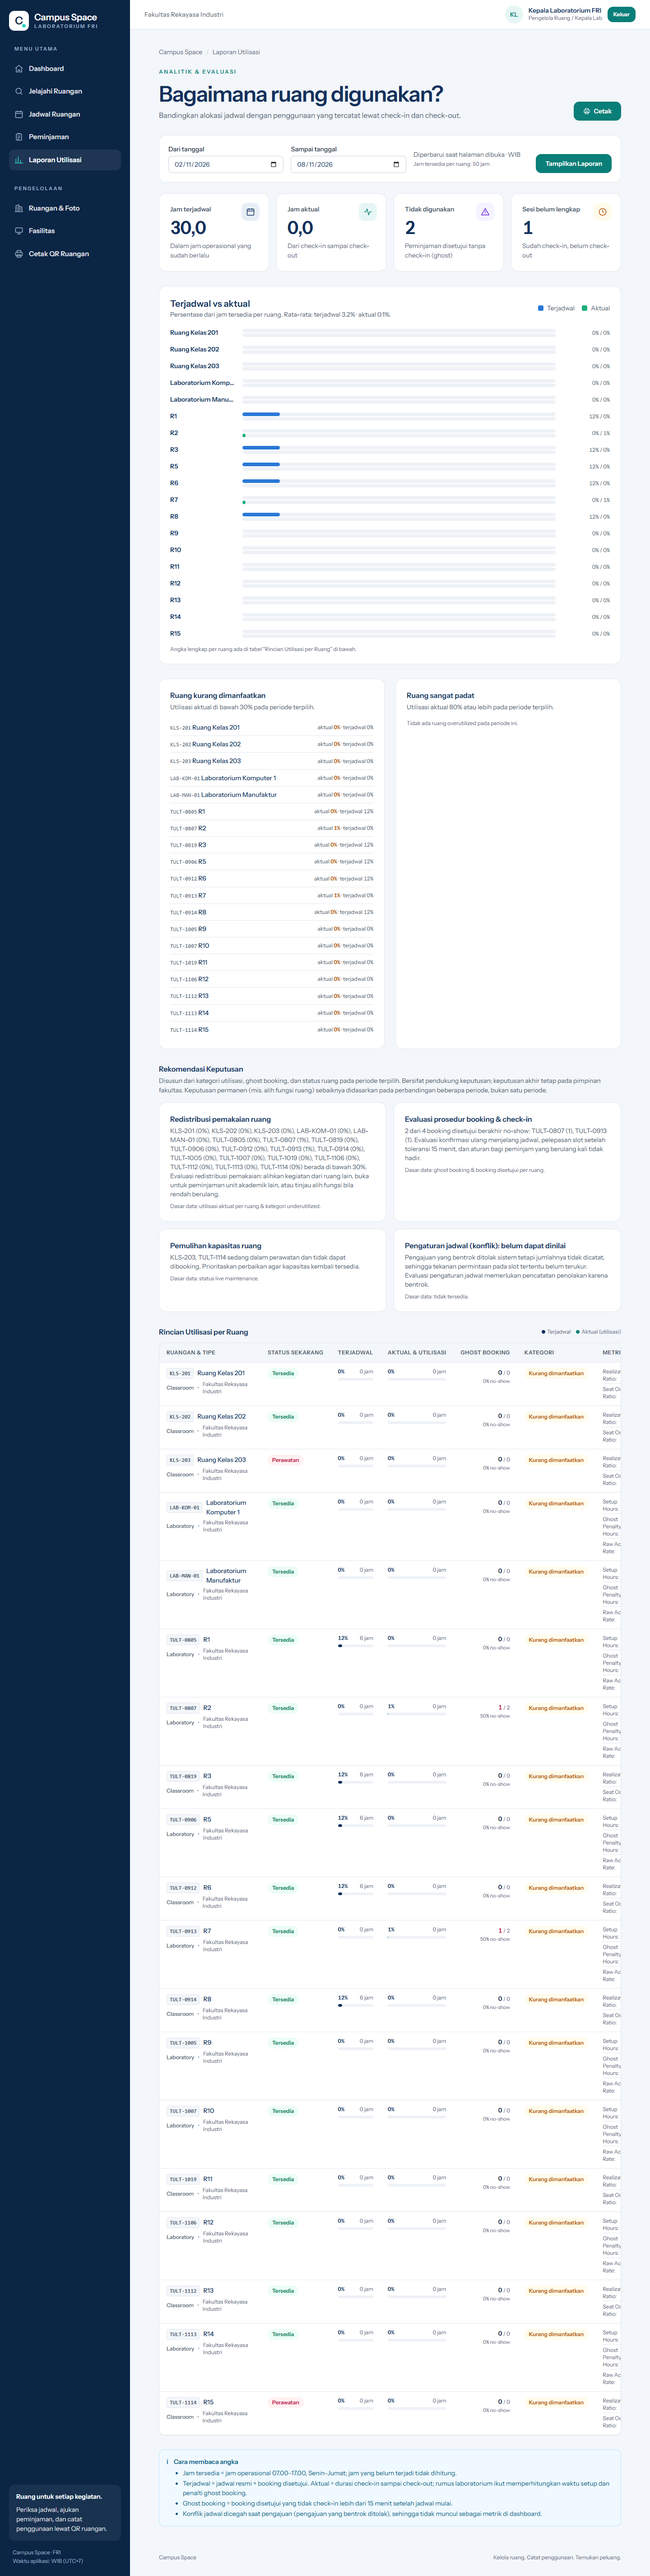
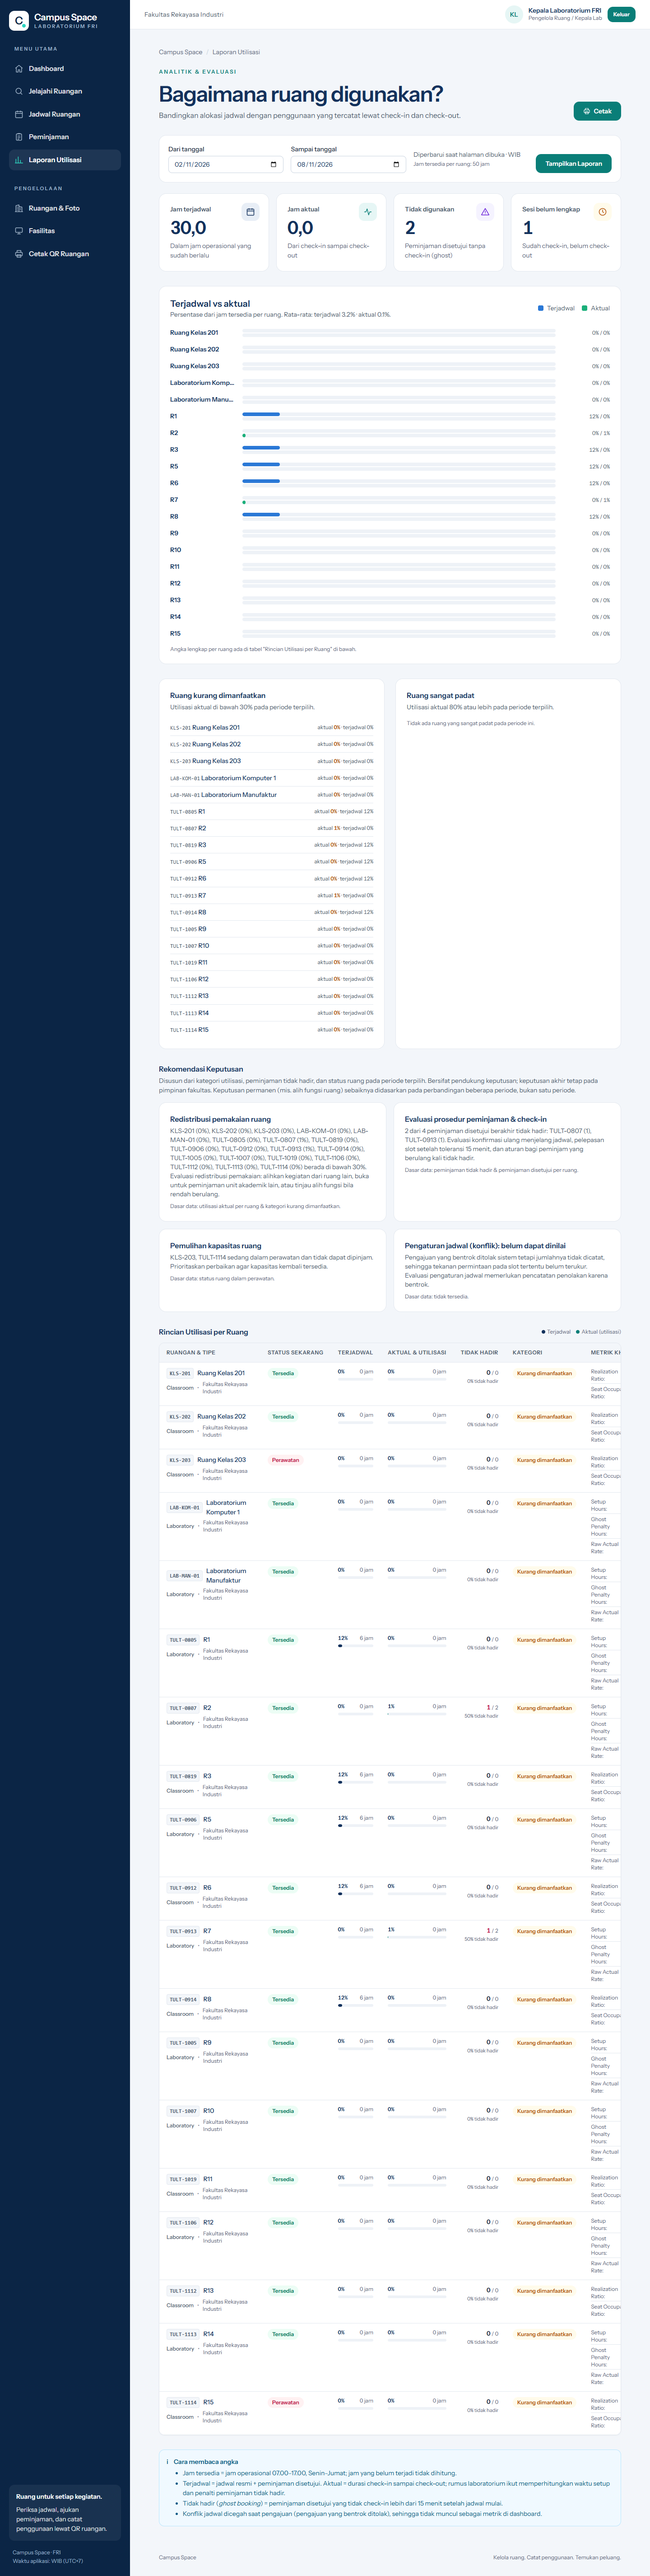
fix(ui): ganti sisa istilah Inggris di laporan utilisasi dan form ruang (by aldikarmdhn)
- "booking" -> "peminjaman", "ghost booking"/"no-show" -> "peminjaman tidak hadir"
- "underutilized"/"overutilized" -> "kurang dimanfaatkan"/"sangat padat"
- Kolom tabel "Ghost Booking" -> "Tidak hadir"; istilah ghost booking tetap di catatan definisi
- Perbarui screenshot 09 di docs/fe/hasil-ui

diff --git a/resources/views/dashboard/utilization.blade.php b/resources/views/dashboard/utilization.blade.php
@@ -132,7 +132,7 @@
             <h2 id="under-heading" class="cs-section-title">Ruang kurang dimanfaatkan</h2>
             <p class="cs-section-description">Utilisasi aktual di bawah 30% pada periode terpilih.</p>
             @if ($underRooms->isEmpty())
-                <p class="cs-caption mt-4">Tidak ada ruang underutilized pada periode ini.</p>
+                <p class="cs-caption mt-4">Tidak ada ruang yang kurang dimanfaatkan pada periode ini.</p>
             @else
                 <ul class="mt-4 divide-y divide-border">
                     @foreach ($underRooms as $room)
@@ -155,7 +155,7 @@
             <h2 id="over-heading" class="cs-section-title">Ruang sangat padat</h2>
             <p class="cs-section-description">Utilisasi aktual 80% atau lebih pada periode terpilih.</p>
             @if ($overRooms->isEmpty())
-                <p class="cs-caption mt-4">Tidak ada ruang overutilized pada periode ini.</p>
+                <p class="cs-caption mt-4">Tidak ada ruang yang sangat padat pada periode ini.</p>
             @else
                 <ul class="mt-4 divide-y divide-border">
                     @foreach ($overRooms as $room)
@@ -179,7 +179,7 @@
     <section aria-labelledby="recommendation-heading" class="mb-8">
         <h2 id="recommendation-heading" class="cs-section-title">Rekomendasi Keputusan</h2>
         <p class="cs-section-description">
-            Disusun dari kategori utilisasi, ghost booking, dan status ruang pada periode terpilih.
+            Disusun dari kategori utilisasi, peminjaman tidak hadir, dan status ruang pada periode terpilih.
             Bersifat pendukung keputusan; keputusan akhir tetap pada pimpinan fakultas. Keputusan permanen
             (mis. alih fungsi ruang) sebaiknya didasarkan pada perbandingan beberapa periode, bukan satu periode.
         </p>
@@ -188,7 +188,7 @@
             <div class="cs-card mt-4">
                 <div class="cs-empty-state">
                     <p class="cs-empty-state-title">Belum ada data ruang untuk dianalisis.</p>
-                    <p class="mt-1">Rekomendasi muncul setelah ruang, jadwal, dan booking tercatat.
+                    <p class="mt-1">Rekomendasi muncul setelah ruang, jadwal, dan peminjaman tercatat.
                         <a href="{{ route('rooms.create') }}" class="cs-link">Tambah ruang</a>.</p>
                 </div>
             </div>
@@ -200,10 +200,10 @@
                             <h3 class="font-semibold text-ink">Redistribusi beban ruang (load balancing)</h3>
                             <p class="mt-1 text-sm text-ink-soft">
                                 Pemakaian tidak merata: {{ $roomRates($overRooms) }} berada di atas 80%, sementara
-                                {{ $roomRates($underRooms) }} di bawah 30%. Evaluasi pemindahan sebagian jadwal/booking dari ruang
+                                {{ $roomRates($underRooms) }} di bawah 30%. Evaluasi pemindahan sebagian jadwal/peminjaman dari ruang
                                 padat ke ruang yang kurang dimanfaatkan dengan kapasitas dan tipe ruang yang sesuai.
                             </p>
-                            <p class="cs-caption mt-2">Dasar data: utilisasi aktual per ruang &amp; kategori over/underutilized.</p>
+                            <p class="cs-caption mt-2">Dasar data: utilisasi aktual per ruang &amp; kategori sangat padat / kurang dimanfaatkan.</p>
                         </article>
                     </li>
                 @elseif ($overRooms->isNotEmpty())
@@ -214,7 +214,7 @@
                                 {{ $roomRates($overRooms) }} berada pada utilisasi 80% atau lebih. Evaluasi pemerataan jadwal ke
                                 jam/hari yang lebih longgar dan kecukupan kapasitas ruang sejenis sebagai alternatif.
                             </p>
-                            <p class="cs-caption mt-2">Dasar data: utilisasi aktual per ruang &amp; kategori overutilized.</p>
+                            <p class="cs-caption mt-2">Dasar data: utilisasi aktual per ruang &amp; kategori sangat padat.</p>
                         </article>
                     </li>
                 @elseif ($underRooms->isNotEmpty())
@@ -225,7 +225,7 @@
                                 {{ $roomRates($underRooms) }} berada di bawah 30%. Evaluasi redistribusi pemakaian: alihkan kegiatan
                                 dari ruang lain, buka untuk peminjaman unit akademik lain, atau tinjau alih fungsi bila rendah berulang.
                             </p>
-                            <p class="cs-caption mt-2">Dasar data: utilisasi aktual per ruang &amp; kategori underutilized.</p>
+                            <p class="cs-caption mt-2">Dasar data: utilisasi aktual per ruang &amp; kategori kurang dimanfaatkan.</p>
                         </article>
                     </li>
                 @endif
@@ -233,14 +233,14 @@
                 @if ($ghostRooms->isNotEmpty())
                     <li class="cs-card cs-card-body">
                         <article>
-                            <h3 class="font-semibold text-ink">Evaluasi prosedur booking &amp; check-in</h3>
+                            <h3 class="font-semibold text-ink">Evaluasi prosedur peminjaman &amp; check-in</h3>
                             <p class="mt-1 text-sm text-ink-soft">
-                                {{ $totalGhosts }} dari {{ $totalApproved }} booking disetujui berakhir no-show:
+                                {{ $totalGhosts }} dari {{ $totalApproved }} peminjaman disetujui berakhir tidak hadir:
                                 {{ $ghostRooms->map(fn ($room) => $room['room_code'] . ' (' . $room['ghost_bookings'] . ')')->join(', ') }}.
                                 Evaluasi konfirmasi ulang menjelang jadwal, pelepasan slot setelah toleransi {{ $ghostTolerance }} menit,
                                 dan aturan bagi peminjam yang berulang kali tidak hadir.
                             </p>
-                            <p class="cs-caption mt-2">Dasar data: ghost booking &amp; booking disetujui per ruang.</p>
+                            <p class="cs-caption mt-2">Dasar data: peminjaman tidak hadir &amp; peminjaman disetujui per ruang.</p>
                         </article>
                     </li>
                 @endif
@@ -250,10 +250,10 @@
                         <article>
                             <h3 class="font-semibold text-ink">Pemulihan kapasitas ruang</h3>
                             <p class="mt-1 text-sm text-ink-soft">
-                                {{ $maintenanceRooms->pluck('room_code')->join(', ') }} sedang dalam perawatan dan tidak dapat dibooking.
+                                {{ $maintenanceRooms->pluck('room_code')->join(', ') }} sedang dalam perawatan dan tidak dapat dipinjam.
                                 Prioritaskan perbaikan agar kapasitas kembali tersedia.
                             </p>
-                            <p class="cs-caption mt-2">Dasar data: status live maintenance.</p>
+                            <p class="cs-caption mt-2">Dasar data: status ruang dalam perawatan.</p>
                         </article>
                     </li>
                 @endif
@@ -263,9 +263,9 @@
                         <article>
                             <h3 class="font-semibold text-ink">Pertahankan pola jadwal</h3>
                             <p class="mt-1 text-sm text-ink-soft">
-                                Semua ruang berada pada kategori normal, tanpa ghost booking dan tanpa ruang dalam perawatan.
+                                Semua ruang berada pada kategori normal, tanpa peminjaman tidak hadir dan tanpa ruang dalam perawatan.
                             </p>
-                            <p class="cs-caption mt-2">Dasar data: kategori utilisasi, ghost booking, status live.</p>
+                            <p class="cs-caption mt-2">Dasar data: kategori utilisasi, peminjaman tidak hadir, status ruang saat ini.</p>
                         </article>
                     </li>
                 @endif
@@ -301,14 +301,14 @@
 
         <div class="cs-table-wrap" role="region" aria-labelledby="detail-heading" tabindex="0">
             <table class="cs-table">
-                <caption class="sr-only">Utilisasi terjadwal, aktual, ghost booking, dan kategori setiap ruang pada periode terpilih</caption>
+                <caption class="sr-only">Utilisasi terjadwal, aktual, peminjaman tidak hadir, dan kategori setiap ruang pada periode terpilih</caption>
                 <thead>
                     <tr>
                         <th scope="col">Ruangan &amp; Tipe</th>
                         <th scope="col">Status sekarang</th>
                         <th scope="col">Terjadwal</th>
                         <th scope="col">Aktual &amp; Utilisasi</th>
-                        <th scope="col" class="text-right">Ghost Booking</th>
+                        <th scope="col" class="text-right">Tidak hadir</th>
                         <th scope="col">Kategori</th>
                         <th scope="col">Metrik Khusus</th>
                     </tr>
@@ -364,7 +364,7 @@
                                     {{ $room['ghost_bookings'] }}
                                 </span>
                                 <span class="text-xs text-ink-muted">/ {{ $room['approved_bookings'] }}</span>
-                                <span class="block text-[11px] text-ink-muted">{{ $room['ghost_rate'] }}% no-show</span>
+                                <span class="block text-[11px] text-ink-muted">{{ $room['ghost_rate'] }}% tidak hadir</span>
                             </td>
 
                             {{-- Kategori --}}
@@ -399,7 +399,7 @@
                             <td colspan="7">
                                 <div class="cs-empty-state">
                                     <p class="cs-empty-state-title">Belum ada data ruang atau aktivitas pada periode ini.</p>
-                                    <p class="mt-1">Data utilisasi dihitung dari ruang, jadwal, dan booking yang tercatat.
+                                    <p class="mt-1">Data utilisasi dihitung dari ruang, jadwal, dan peminjaman yang tercatat.
                                         <a href="{{ route('rooms.create') }}" class="cs-link">Tambah ruang baru</a>.</p>
                                 </div>
                             </td>
@@ -417,8 +417,8 @@
             <h2 id="method-heading" class="cs-alert-title">Cara membaca angka</h2>
             <ul class="mt-1 list-disc space-y-0.5 pl-5">
                 <li>Jam tersedia = jam operasional {{ sprintf('%02d.00', $openingHour) }}–{{ sprintf('%02d.00', $closingHour) }}, Senin–Jumat; jam yang belum terjadi tidak dihitung.</li>
-                <li>Terjadwal = jadwal resmi + booking disetujui. Aktual = durasi check-in sampai check-out; rumus laboratorium ikut memperhitungkan waktu setup dan penalti ghost booking.</li>
-                <li>Ghost booking = booking disetujui yang tidak check-in lebih dari {{ $ghostTolerance }} menit setelah jadwal mulai.</li>
+                <li>Terjadwal = jadwal resmi + peminjaman disetujui. Aktual = durasi check-in sampai check-out; rumus laboratorium ikut memperhitungkan waktu setup dan penalti peminjaman tidak hadir.</li>
+                <li>Tidak hadir (<i>ghost booking</i>) = peminjaman disetujui yang tidak check-in lebih dari {{ $ghostTolerance }} menit setelah jadwal mulai.</li>
                 <li>Konflik jadwal dicegah saat pengajuan (pengajuan yang bentrok ditolak), sehingga tidak muncul sebagai metrik di dashboard.</li>
             </ul>
         </div>

diff --git a/resources/views/rooms/partials/form.blade.php b/resources/views/rooms/partials/form.blade.php
@@ -73,7 +73,7 @@
                     <option value="{{ $value }}" @selected(old('type', $room?->type) === $value)>{{ $label }}</option>
                 @endforeach
             </select>
-            <p id="type-hint" class="cs-form-hint">Menentukan rumus utilisasi: Computer Lab menghitung waktu setup &amp; penalti ghost booking.</p>
+            <p id="type-hint" class="cs-form-hint">Menentukan rumus utilisasi: Computer Lab menghitung waktu setup &amp; penalti peminjaman tidak hadir.</p>
             <x-field-error for="type" />
         </div>
     </div>
